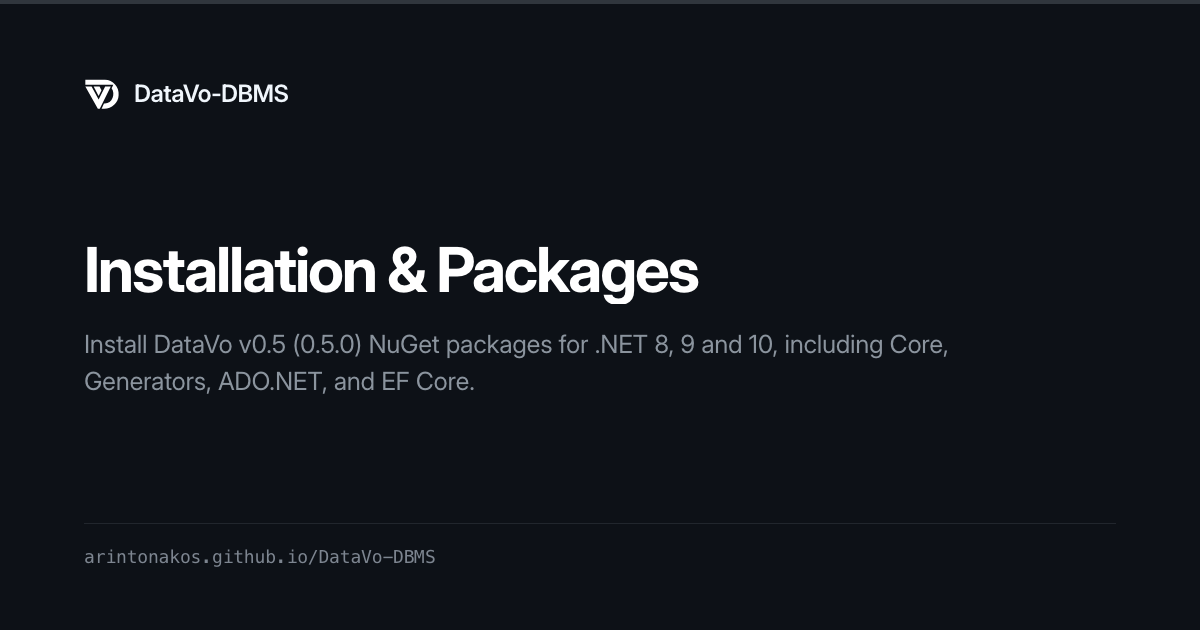
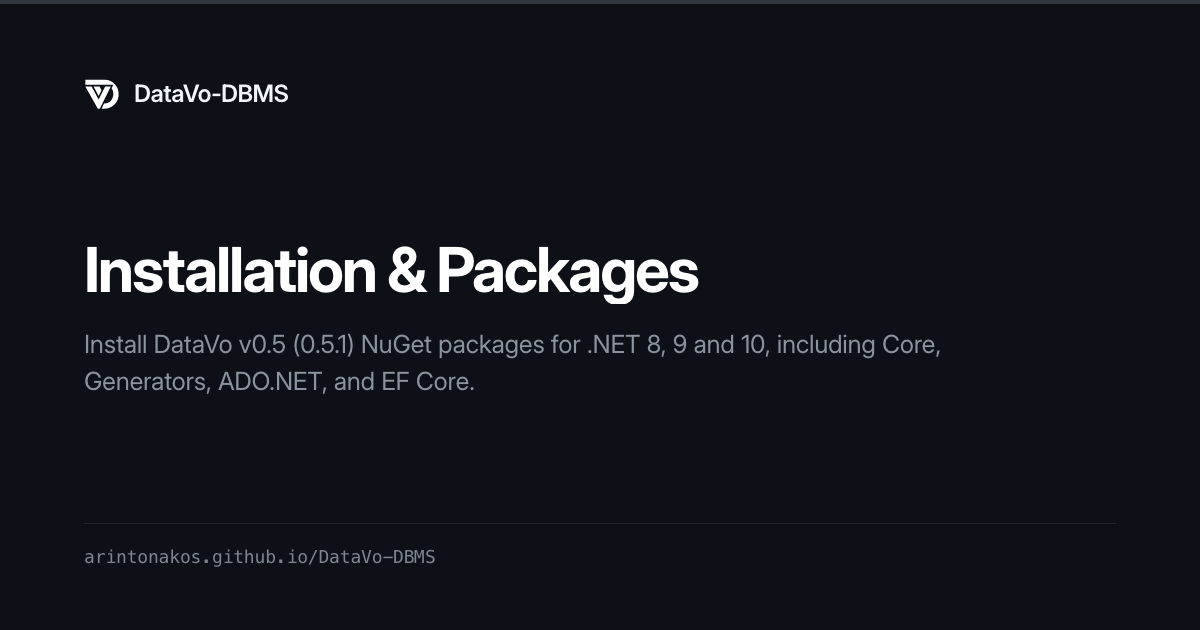
docs: add early repo CTAs to blog posts, sync 0.5.1 release, and fix roadmap redirects

Changed region(s): [[0.2775, 0.5127, 0.8017, 0.573]]

diff --git a/docs/.vitepress/theme/index.ts b/docs/.vitepress/theme/index.ts
@@ -25,6 +25,12 @@ function resolveLegacyRedirect(raw: string): string | null {
   const query = queryIndex >= 0 ? withoutHash.slice(queryIndex) : '';
   let pathname = queryIndex >= 0 ? withoutHash.slice(0, queryIndex) : withoutHash;
 
+  try {
+    pathname = decodeURIComponent(pathname);
+  } catch {
+    // Keep raw pathname if percent-encoding is malformed.
+  }
+
   if (pathname.startsWith(`${BASE_PREFIX}/`)) {
     pathname = pathname.slice(BASE_PREFIX.length);
   } else if (pathname === BASE_PREFIX) {
@@ -32,12 +38,19 @@ function resolveLegacyRedirect(raw: string): string | null {
   }
 
   pathname = pathname.replace(/\.html$/u, '').replace(/\/+$/u, '');
-  const target = LEGACY_REDIRECTS[pathname];
-  if (!target) {
-    return null;
+  const directTarget = LEGACY_REDIRECTS[pathname];
+  if (directTarget) {
+    return `${withBase(directTarget)}${query}${hash}`;
   }
 
-  return `${withBase(target)}${query}${hash}`;
+  // Strip stray trailing markdown punctuation (e.g. `/manual/getting-started/roadmap))` or `roadmap)):`).
+  const stripped = pathname.replace(/[):]+$/u, '');
+  if (stripped && stripped !== pathname) {
+    const target = LEGACY_REDIRECTS[stripped] ?? stripped;
+    return `${withBase(target)}${query}${hash}`;
+  }
+
+  return null;
 }
 
 declare global {

diff --git a/docs/.vitepress/legacy-redirects.ts b/docs/.vitepress/legacy-redirects.ts
@@ -8,6 +8,8 @@ export const LEGACY_REDIRECTS: Record<string, string> = {
   '/manual/preface/project-status': '/manual/getting-started/roadmap',
   '/manual/preface/alpha-scope': '/manual/getting-started/roadmap',
   '/manual/preface/roadmap': '/manual/getting-started/roadmap',
+  '/manual/getting-started/roadmap)': '/manual/getting-started/roadmap',
+  '/manual/getting-started/roadmap))': '/manual/getting-started/roadmap',
   '/manual/tutorial/quickstart': '/manual/getting-started/quickstart',
   '/manual/tutorial/datavo-context': '/manual/client-interfaces/datavo-context-api',
   '/manual/tutorial/ado-net-and-dapper': '/manual/client-interfaces/dapper',

diff --git a/docs/blog/part-1-where-it-wins-and-where-it-loses.md b/docs/blog/part-1-where-it-wins-and-where-it-loses.md
@@ -16,7 +16,7 @@ When you build a local-first .NET application today—a desktop tool that has to
 
 I wanted to know what happens if you collapse all of that into a single managed .NET 10 process.
 
-Over the last several months, I have been building two pieces to test that idea. **DataVo-DBMS** is an MIT-licensed embedded relational, columnar, and vector database written from scratch in pure C# (compiling cleanly under Native AOT). **DataVo-Sync** is a separate, proprietary commercial add-on that keeps a local DataVo store synchronized with PostgreSQL in both directions, including writes made while offline.
+Over the last several months, I have been building two pieces to test that idea. **[DataVo-DBMS](https://github.com/ArintonAkos/DataVo-DBMS)** is an MIT-licensed embedded relational, columnar, and vector database written from scratch in pure C# (compiling cleanly under Native AOT). **[DataVo-Sync](https://github.com/ArintonAkos/DataVo-Sync)** is a separate, proprietary commercial add-on that keeps a local DataVo store synchronized with PostgreSQL in both directions, including writes made while offline.
 
 This first post is a map of the whole system: why it is structured the way it is, what kinds of applications it actually fits, and what the numbers look like when measured against SQLite, DuckDB, and ElectricSQL across macOS, Linux, and Windows.
 
@@ -28,6 +28,10 @@ At a glance, the approach pays off in four specific places:
 - **Compact offline-first Postgres sync:** End-to-end PostgreSQL 17 replication transfers **45.5 bytes per row** over the wire (**8.0× smaller** than ElectricSQL `1.8.1`) with **5.1–6.9× lower** client GC allocations, converging automatically after a burst of 500 offline writes.
 
 It also loses in predictable places: unindexed substring scans (**1.35× slower** than SQLite on `LIKE '%042-%'`), whole-table analytical scans without `[Columnar]` (**3–340× slower** than DuckDB), Linux single-row durable `StrictFsync` latency (**0.241 ms** vs **0.108 ms**, **2.2× slower** than SQLite WAL `FULL`), and sync hub cold-start time (**2.4 s** to load 100k rows). Those losses are reported alongside the wins below, because an embedded database is only useful once you know where its boundaries are.
+
+::: tip Try or bookmark DataVo
+Explore or star the MIT-licensed engine at [`ArintonAkos/DataVo-DBMS`](https://github.com/ArintonAkos/DataVo-DBMS), or jump to the self-hosted Postgres sync quickstart at [`ArintonAkos/DataVo-Sync`](https://github.com/ArintonAkos/DataVo-Sync).
+:::
 
 ## Why put all of this in one process?
 
@@ -53,7 +57,7 @@ DataVo exists for four narrower situations where the usual stack starts to show 
 
 *Figure 1: Traditional .NET local-first assembly vs. single-process consolidation in DataVo.*
 
-It is equally important to be clear about what DataVo is **not**. It is not a client/server database: a lock file (`datavo.lock`) gives one process exclusive ownership of a database directory. Transactions provide snapshot isolation rather than serializability <a class="cite-badge" href="#ref-2">2</a>. Its SQL dialect intentionally leaves out features teams expect from full-scale SQL engines: no `CASE`/`CAST`/`COALESCE` or date functions, no window functions beyond `RANK()`, and no `CREATE VIEW`, triggers, or stored procedures. At `0.4.0-rc.1` it is prerelease software whose on-disk format does not yet carry a cross-version compatibility guarantee: standalone local databases require an export and re-import across breaking format changes, whereas `DataVo-Sync` setups treat PostgreSQL as the source of truth and can simply wipe and re-hydrate the local replica (**~0.7 s** for 100k rows).
+It is equally important to be clear about what DataVo is **not**. It is not a client/server database: a lock file (`datavo.lock`) gives one process exclusive ownership of a database directory. Transactions provide snapshot isolation rather than serializability <a class="cite-badge" href="#ref-2">2</a>. Its SQL dialect intentionally leaves out features teams expect from full-scale SQL engines: no `CASE`/`CAST`/`COALESCE` or date functions, no window functions beyond `RANK()`, and no `CREATE VIEW`, triggers, or stored procedures. At `0.5.1` (the current release on NuGet) it is pre-1.0 software whose on-disk format does not yet carry a cross-version compatibility guarantee: standalone local databases require an export and re-import across breaking format changes, whereas `DataVo-Sync` setups treat PostgreSQL as the source of truth and can simply wipe and re-hydrate the local replica (**~0.7 s** for 100k rows).
 
 ## How the engine is put together
 
@@ -265,7 +269,7 @@ The first run of this oracle on 14 November, against the unmodified engine, caug
 
 Each had a distinct bug underneath: a `WHERE` filter on the `NULL`-supplying side of an outer join evaluated before `NULL` padding existed; a parser dropping `DISTINCT` inside an aggregate; a planner comparing a table alias string against a raw table name; row keys emitted in a different order depending on join drive side; and a vector join path applying only the portion of `WHERE` that referenced the vector table.
 
-All five are fixed and covered by regression tests in `0.4.0-rc.1`. I include them here because speed numbers mean little without them: a fast wrong answer is not fast. Rigger and Su's *Pivoted Query Synthesis* <a class="cite-badge" href="#ref-7">7</a> and Slutz's *Massive Stochastic Testing of SQL* <a class="cite-badge" href="#ref-8">8</a> are the intellectual ancestors of this check, though here the oracle is an exact computation from the generator rather than a second database.
+All five were fixed and covered by regression tests in `0.4.0-rc.1` (and carry forward into the current `0.5.1` NuGet release). I include them here because speed numbers mean little without them: a fast wrong answer is not fast. Rigger and Su's *Pivoted Query Synthesis* <a class="cite-badge" href="#ref-7">7</a> and Slutz's *Massive Stochastic Testing of SQL* <a class="cite-badge" href="#ref-8">8</a> are the intellectual ancestors of this check, though here the oracle is an exact computation from the generator rather than a second database.
 
 ## Durability, concurrency, and recovery
 
@@ -381,7 +385,7 @@ Every storage engine is a set of trade-offs. Beyond the SQLite wins on `W6`, `C8
 
 Put those limits together with the wins, and the decision boundary is straightforward:
 
-- **Use SQLite** if you want the default embedded SQL database with the broadest SQL support, the largest ecosystem, and two decades of failure experience. DataVo's dialect is its own and its `0.4.0-rc.1` on-disk format may still change.
+- **Use SQLite** if you want the default embedded SQL database with the broadest SQL support, the largest ecosystem, and two decades of failure experience. DataVo's dialect is its own and its `0.5.1` on-disk format may still change.
 - **Use DuckDB** if your workload is whole-table OLAP analytics over large datasets or Parquet/CSV files. It is one to three orders of magnitude faster than either DataVo or SQLite on those queries.
 - **Use ElectricSQL** if you want read-path sync from PostgreSQL into a browser or app from an established, maintained product. My comparison covers one workload (initial sync and live latency over loopback), not its full feature set. In this setup it served as a read path; DataVo-Sync adds an offline write path, which is a different scope rather than a better implementation of the same one.
 - **Try DataVo** if you are building in .NET and specifically want managed Native AOT packaging with zero native binaries, SQL + `VECTOR(n)` search + Z-set incremental views in one transaction log, or bidirectional offline-first PostgreSQL sync.
@@ -389,8 +393,8 @@ Put those limits together with the wins, and the decision boundary is straightfo
 ## Getting started
 
 ```bash
-dotnet add package DataVo.Core --prerelease
-dotnet add package DataVo.Generators --prerelease   # optional: zero-alloc compiled LINQ
+dotnet add package DataVo.Core
+dotnet add package DataVo.Generators   # optional: zero-alloc compiled LINQ
 ```
 
 ```csharp

diff --git a/docs/public/ai/pages/blog/part-1-where-it-wins-and-where-it-loses.md b/docs/public/ai/pages/blog/part-1-where-it-wins-and-where-it-loses.md
@@ -9,7 +9,7 @@ When you build a local-first .NET application today—a desktop tool that has to
 
 I wanted to know what happens if you collapse all of that into a single managed .NET 10 process.
 
-Over the last several months, I have been building two pieces to test that idea. **DataVo-DBMS** is an MIT-licensed embedded relational, columnar, and vector database written from scratch in pure C# (compiling cleanly under Native AOT). **DataVo-Sync** is a separate, proprietary commercial add-on that keeps a local DataVo store synchronized with PostgreSQL in both directions, including writes made while offline.
+Over the last several months, I have been building two pieces to test that idea. **[DataVo-DBMS](https://github.com/ArintonAkos/DataVo-DBMS)** is an MIT-licensed embedded relational, columnar, and vector database written from scratch in pure C# (compiling cleanly under Native AOT). **[DataVo-Sync](https://github.com/ArintonAkos/DataVo-Sync)** is a separate, proprietary commercial add-on that keeps a local DataVo store synchronized with PostgreSQL in both directions, including writes made while offline.
 
 This first post is a map of the whole system: why it is structured the way it is, what kinds of applications it actually fits, and what the numbers look like when measured against SQLite, DuckDB, and ElectricSQL across macOS, Linux, and Windows.
 
@@ -21,6 +21,10 @@ At a glance, the approach pays off in four specific places:
 - **Compact offline-first Postgres sync:** End-to-end PostgreSQL 17 replication transfers **45.5 bytes per row** over the wire (**8.0× smaller** than ElectricSQL `1.8.1`) with **5.1–6.9× lower** client GC allocations, converging automatically after a burst of 500 offline writes.
 
 It also loses in predictable places: unindexed substring scans (**1.35× slower** than SQLite on `LIKE '%042-%'`), whole-table analytical scans without `[Columnar]` (**3–340× slower** than DuckDB), Linux single-row durable `StrictFsync` latency (**0.241 ms** vs **0.108 ms**, **2.2× slower** than SQLite WAL `FULL`), and sync hub cold-start time (**2.4 s** to load 100k rows). Those losses are reported alongside the wins below, because an embedded database is only useful once you know where its boundaries are.
+
+::: tip Try or bookmark DataVo
+Explore or star the MIT-licensed engine at [`ArintonAkos/DataVo-DBMS`](https://github.com/ArintonAkos/DataVo-DBMS), or jump to the self-hosted Postgres sync quickstart at [`ArintonAkos/DataVo-Sync`](https://github.com/ArintonAkos/DataVo-Sync).
+:::
 
 ## Why put all of this in one process?
 
@@ -46,7 +50,7 @@ DataVo exists for four narrower situations where the usual stack starts to show 
 
 *Figure 1: Traditional .NET local-first assembly vs. single-process consolidation in DataVo.*
 
-It is equally important to be clear about what DataVo is **not**. It is not a client/server database: a lock file (`datavo.lock`) gives one process exclusive ownership of a database directory. Transactions provide snapshot isolation rather than serializability <a class="cite-badge" href="#ref-2">2</a>. Its SQL dialect intentionally leaves out features teams expect from full-scale SQL engines: no `CASE`/`CAST`/`COALESCE` or date functions, no window functions beyond `RANK()`, and no `CREATE VIEW`, triggers, or stored procedures. At `0.4.0-rc.1` it is prerelease software whose on-disk format does not yet carry a cross-version compatibility guarantee: standalone local databases require an export and re-import across breaking format changes, whereas `DataVo-Sync` setups treat PostgreSQL as the source of truth and can simply wipe and re-hydrate the local replica (**~0.7 s** for 100k rows).
+It is equally important to be clear about what DataVo is **not**. It is not a client/server database: a lock file (`datavo.lock`) gives one process exclusive ownership of a database directory. Transactions provide snapshot isolation rather than serializability <a class="cite-badge" href="#ref-2">2</a>. Its SQL dialect intentionally leaves out features teams expect from full-scale SQL engines: no `CASE`/`CAST`/`COALESCE` or date functions, no window functions beyond `RANK()`, and no `CREATE VIEW`, triggers, or stored procedures. At `0.5.1` (the current release on NuGet) it is pre-1.0 software whose on-disk format does not yet carry a cross-version compatibility guarantee: standalone local databases require an export and re-import across breaking format changes, whereas `DataVo-Sync` setups treat PostgreSQL as the source of truth and can simply wipe and re-hydrate the local replica (**~0.7 s** for 100k rows).
 
 ## How the engine is put together
 
@@ -258,7 +262,7 @@ The first run of this oracle on 14 November, against the unmodified engine, caug
 
 Each had a distinct bug underneath: a `WHERE` filter on the `NULL`-supplying side of an outer join evaluated before `NULL` padding existed; a parser dropping `DISTINCT` inside an aggregate; a planner comparing a table alias string against a raw table name; row keys emitted in a different order depending on join drive side; and a vector join path applying only the portion of `WHERE` that referenced the vector table.
 
-All five are fixed and covered by regression tests in `0.4.0-rc.1`. I include them here because speed numbers mean little without them: a fast wrong answer is not fast. Rigger and Su's *Pivoted Query Synthesis* <a class="cite-badge" href="#ref-7">7</a> and Slutz's *Massive Stochastic Testing of SQL* <a class="cite-badge" href="#ref-8">8</a> are the intellectual ancestors of this check, though here the oracle is an exact computation from the generator rather than a second database.
+All five were fixed and covered by regression tests in `0.4.0-rc.1` (and carry forward into the current `0.5.1` NuGet release). I include them here because speed numbers mean little without them: a fast wrong answer is not fast. Rigger and Su's *Pivoted Query Synthesis* <a class="cite-badge" href="#ref-7">7</a> and Slutz's *Massive Stochastic Testing of SQL* <a class="cite-badge" href="#ref-8">8</a> are the intellectual ancestors of this check, though here the oracle is an exact computation from the generator rather than a second database.
 
 ## Durability, concurrency, and recovery
 
@@ -374,7 +378,7 @@ Every storage engine is a set of trade-offs. Beyond the SQLite wins on `W6`, `C8
 
 Put those limits together with the wins, and the decision boundary is straightforward:
 
-- **Use SQLite** if you want the default embedded SQL database with the broadest SQL support, the largest ecosystem, and two decades of failure experience. DataVo's dialect is its own and its `0.4.0-rc.1` on-disk format may still change.
+- **Use SQLite** if you want the default embedded SQL database with the broadest SQL support, the largest ecosystem, and two decades of failure experience. DataVo's dialect is its own and its `0.5.1` on-disk format may still change.
 - **Use DuckDB** if your workload is whole-table OLAP analytics over large datasets or Parquet/CSV files. It is one to three orders of magnitude faster than either DataVo or SQLite on those queries.
 - **Use ElectricSQL** if you want read-path sync from PostgreSQL into a browser or app from an established, maintained product. My comparison covers one workload (initial sync and live latency over loopback), not its full feature set. In this setup it served as a read path; DataVo-Sync adds an offline write path, which is a different scope rather than a better implementation of the same one.
 - **Try DataVo** if you are building in .NET and specifically want managed Native AOT packaging with zero native binaries, SQL + `VECTOR(n)` search + Z-set incremental views in one transaction log, or bidirectional offline-first PostgreSQL sync.
@@ -382,8 +386,8 @@ Put those limits together with the wins, and the decision boundary is straightfo
 ## Getting started
 
 ```bash
-dotnet add package DataVo.Core --prerelease
-dotnet add package DataVo.Generators --prerelease   # optional: zero-alloc compiled LINQ
+dotnet add package DataVo.Core
+dotnet add package DataVo.Generators   # optional: zero-alloc compiled LINQ
 ```
 
 ```csharp

diff --git a/docs/manual/getting-started/roadmap.md b/docs/manual/getting-started/roadmap.md
@@ -1,11 +1,11 @@
 ---
 title: Status & Roadmap
-description: Release guarantees, subsystem stability, explicit boundaries, and the v0.2–v0.5 milestone history for DataVo 0.5.0.
+description: Release guarantees, subsystem stability, explicit boundaries, and the v0.2–v0.5 milestone history for DataVo 0.5.1.
 ---
 
 # Status & Roadmap
 
-The current release on NuGet is **0.5.0 (25 November 2026)**, targeting `.NET 8`, `.NET 9`, `.NET 10` and `netstandard2.1`. This page defines the release contract, subsystem status, architectural boundaries, and the milestone history.
+The current release on NuGet is **0.5.1 (26 November 2026)**, targeting `.NET 8`, `.NET 9`, `.NET 10` and `netstandard2.1`. This page defines the release contract, subsystem status, architectural boundaries, and the milestone history.
 
 ## Release Contract
 
@@ -19,14 +19,14 @@ The current release on NuGet is **0.5.0 (25 November 2026)**, targeting `.NET 8`
 
 | Subsystem | Status | Notes |
 | --- | --- | --- |
-| `DataVoContext` & SQL dialect | Released (0.5.0) | DataVo's own dialect; see [SQL Compatibility](/manual/sql/compatibility) |
-| `InMemory` & `Lsm` storage | Released (0.5.0) | The two storage modes (the paged `Disk` engine was removed in v0.5) |
-| Transactions & MVCC | Released (0.5.0) | Snapshot isolation, savepoints, atomic `COMMIT` |
-| Vector search (`HNSW`, `FLAT`) | Released (0.5.0) | Cosine (`<=>`) and L2 (`<->`), cost-based exact fallback |
-| Columnar indexes & SSTable segments | Released (0.5.0) | In-memory buffers + persisted 4,096-row zone-mapped segments |
-| Live Reactive Views (Z-set IVM) | Released (0.5.0) | Pull-drain subscriptions via `Subscribe` / `SubscribeZeroAlloc` |
-| `DataVo.Generators` & Native AOT | Released (0.5.0) | Trim/AOT analyzers (`IL2026`, `IL3050`) enforced as errors |
-| `DataVo.Data` (ADO.NET & Dapper) | Released (0.5.0) | Standard `System.Data.Common` types; no `DbProviderFactory` |
+| `DataVoContext` & SQL dialect | Released (0.5.1) | DataVo's own dialect; see [SQL Compatibility](/manual/sql/compatibility) |
+| `InMemory` & `Lsm` storage | Released (0.5.1) | The two storage modes (the paged `Disk` engine was removed in v0.5) |
+| Transactions & MVCC | Released (0.5.1) | Snapshot isolation, savepoints, atomic `COMMIT` |
+| Vector search (`HNSW`, `FLAT`) | Released (0.5.1) | Cosine (`<=>`) and L2 (`<->`), cost-based exact fallback |
+| Columnar indexes & SSTable segments | Released (0.5.1) | In-memory buffers + persisted 4,096-row zone-mapped segments |
+| Live Reactive Views (Z-set IVM) | Released (0.5.1) | Pull-drain subscriptions via `Subscribe` / `SubscribeZeroAlloc` |
+| `DataVo.Generators` & Native AOT | Released (0.5.1) | Trim/AOT analyzers (`IL2026`, `IL3050`) enforced as errors |
+| `DataVo.Data` (ADO.NET & Dapper) | Released (0.5.1) | Standard `System.Data.Common` types; no `DbProviderFactory` |
 | `DataVo.EntityFrameworkCore` | Preview bridge | Query/DML bridge only; no migrations, excluded from AOT |
 | `DataVo.Browser` (WebAssembly) | Experimental | Powers the docs playground; not published on npm |
 | `DataVo-Sync` (PostgreSQL sync) | Commercial add-on | Separate proprietary product; see [DataVo-Sync](/manual/fundamentals/datavo-sync) |
@@ -57,7 +57,7 @@ The current release on NuGet is **0.5.0 (25 November 2026)**, targeting `.NET 8`
 - **Typed execution:** `OR`/`LIKE` fast paths, integer-key hash joins, index-driven joins, dense bit-set anti-joins, unboxed `GROUP BY`, UTF-8 byte matching, and in-place top-k.
 - **Vector search:** HNSW diversity heuristic on by default (100% recall@10 on clustered data), cost-based exact scan fallback, SQL `WITH (...)` HNSW parameters, and pre-optimized SIMD kernels.
 
-### v0.5: AI Integration, Client Ergonomics & Native Interop *(released as `0.5.0`)*
+### v0.5: AI Integration, Client Ergonomics & Native Interop *(released as `0.5.0`; current release `0.5.1`)*
 - **Track A (Native Interop):** Native AOT C ABI (`dv_open`, `dv_exec`, `dv_prepare`) for C/Python/Rust/Go, zero-copy Apache Arrow C Data Interface export from columnar buffers/SSTables, and a reference Python binding.
 - **Track B (Client Applications):**
   - *Done:* Build-time compiled `OrderBy`/`ThenBy`, `Skip`/`Take`, `Select` projections, and single-table `ExecuteUpdate`/`ExecuteDelete` in `DataVo.Generators`.

diff --git a/docs/public/ai/pages/manual/getting-started/roadmap.md b/docs/public/ai/pages/manual/getting-started/roadmap.md
@@ -3,7 +3,7 @@
 > Source route: /manual/getting-started/roadmap
 > Source file: manual/getting-started/roadmap.md
 
-The current release on NuGet is **0.5.0 (25 November 2026)**, targeting `.NET 8`, `.NET 9`, `.NET 10` and `netstandard2.1`. This page defines the release contract, subsystem status, architectural boundaries, and the milestone history.
+The current release on NuGet is **0.5.1 (26 November 2026)**, targeting `.NET 8`, `.NET 9`, `.NET 10` and `netstandard2.1`. This page defines the release contract, subsystem status, architectural boundaries, and the milestone history.
 
 ## Release Contract
 
@@ -17,14 +17,14 @@ The current release on NuGet is **0.5.0 (25 November 2026)**, targeting `.NET 8`
 
 | Subsystem | Status | Notes |
 | --- | --- | --- |
-| `DataVoContext` & SQL dialect | Released (0.5.0) | DataVo's own dialect; see [SQL Compatibility](/manual/sql/compatibility) |
-| `InMemory` & `Lsm` storage | Released (0.5.0) | The two storage modes (the paged `Disk` engine was removed in v0.5) |
-| Transactions & MVCC | Released (0.5.0) | Snapshot isolation, savepoints, atomic `COMMIT` |
-| Vector search (`HNSW`, `FLAT`) | Released (0.5.0) | Cosine (`<=>`) and L2 (`<->`), cost-based exact fallback |
-| Columnar indexes & SSTable segments | Released (0.5.0) | In-memory buffers + persisted 4,096-row zone-mapped segments |
-| Live Reactive Views (Z-set IVM) | Released (0.5.0) | Pull-drain subscriptions via `Subscribe` / `SubscribeZeroAlloc` |
-| `DataVo.Generators` & Native AOT | Released (0.5.0) | Trim/AOT analyzers (`IL2026`, `IL3050`) enforced as errors |
-| `DataVo.Data` (ADO.NET & Dapper) | Released (0.5.0) | Standard `System.Data.Common` types; no `DbProviderFactory` |
+| `DataVoContext` & SQL dialect | Released (0.5.1) | DataVo's own dialect; see [SQL Compatibility](/manual/sql/compatibility) |
+| `InMemory` & `Lsm` storage | Released (0.5.1) | The two storage modes (the paged `Disk` engine was removed in v0.5) |
+| Transactions & MVCC | Released (0.5.1) | Snapshot isolation, savepoints, atomic `COMMIT` |
+| Vector search (`HNSW`, `FLAT`) | Released (0.5.1) | Cosine (`<=>`) and L2 (`<->`), cost-based exact fallback |
+| Columnar indexes & SSTable segments | Released (0.5.1) | In-memory buffers + persisted 4,096-row zone-mapped segments |
+| Live Reactive Views (Z-set IVM) | Released (0.5.1) | Pull-drain subscriptions via `Subscribe` / `SubscribeZeroAlloc` |
+| `DataVo.Generators` & Native AOT | Released (0.5.1) | Trim/AOT analyzers (`IL2026`, `IL3050`) enforced as errors |
+| `DataVo.Data` (ADO.NET & Dapper) | Released (0.5.1) | Standard `System.Data.Common` types; no `DbProviderFactory` |
 | `DataVo.EntityFrameworkCore` | Preview bridge | Query/DML bridge only; no migrations, excluded from AOT |
 | `DataVo.Browser` (WebAssembly) | Experimental | Powers the docs playground; not published on npm |
 | `DataVo-Sync` (PostgreSQL sync) | Commercial add-on | Separate proprietary product; see [DataVo-Sync](/manual/fundamentals/datavo-sync) |
@@ -55,7 +55,7 @@ The current release on NuGet is **0.5.0 (25 November 2026)**, targeting `.NET 8`
 - **Typed execution:** `OR`/`LIKE` fast paths, integer-key hash joins, index-driven joins, dense bit-set anti-joins, unboxed `GROUP BY`, UTF-8 byte matching, and in-place top-k.
 - **Vector search:** HNSW diversity heuristic on by default (100% recall@10 on clustered data), cost-based exact scan fallback, SQL `WITH (...)` HNSW parameters, and pre-optimized SIMD kernels.
 
-### v0.5: AI Integration, Client Ergonomics & Native Interop *(released as `0.5.0`)*
+### v0.5: AI Integration, Client Ergonomics & Native Interop *(released as `0.5.0`; current release `0.5.1`)*
 - **Track A (Native Interop):** Native AOT C ABI (`dv_open`, `dv_exec`, `dv_prepare`) for C/Python/Rust/Go, zero-copy Apache Arrow C Data Interface export from columnar buffers/SSTables, and a reference Python binding.
 - **Track B (Client Applications):**
   - *Done:* Build-time compiled `OrderBy`/`ThenBy`, `Skip`/`Take`, `Select` projections, and single-table `ExecuteUpdate`/`ExecuteDelete` in `DataVo.Generators`.

diff --git a/README.md b/README.md
@@ -78,7 +78,7 @@ Full tables, methodology, cross-platform CI runs, and raw outputs:
 
 ## Install
 
-Current release on [nuget.org](https://www.nuget.org/packages/DataVo.Core/): **0.5.0** (25 November 2026; see the [roadmap](https://arintonakos.github.io/DataVo-DBMS/manual/getting-started/roadmap)):
+Current release on [nuget.org](https://www.nuget.org/packages/DataVo.Core/): **0.5.1** (26 November 2026) — see the [roadmap](https://arintonakos.github.io/DataVo-DBMS/manual/getting-started/roadmap):
 
 ```bash
 dotnet add package DataVo.Core
@@ -199,7 +199,7 @@ The full manual is live at [arintonakos.github.io/DataVo-DBMS](https://arintonak
 
 ## Status
 
-DataVo `0.5.0` is a pre-1.0 release. The documented SQL dialect and C# APIs may still change between minor versions, and the on-disk format does not yet carry a long-term cross-version compatibility guarantee, so keep an export or seed script for important data. Validate your own workload before relying on it in production.
+DataVo `0.5.1` is a pre-1.0 release. The documented SQL dialect and C# APIs may still change between minor versions, and the on-disk format does not yet carry a long-term cross-version compatibility guarantee, so keep an export or seed script for important data. Validate your own workload before relying on it in production.
 
 ## License
 

diff --git a/docs/blog/part-2-packed-buffers-aot-and-roslyn-codegen.md b/docs/blog/part-2-packed-buffers-aot-and-roslyn-codegen.md
@@ -28,6 +28,10 @@ At a glance, five engineering choices drive both the speed and the packaging sto
 
 Each of these optimizations trades runtime cost for additional parity invariants against the general SQL evaluator, memory-ordering constraints, or compiler requirements; the final section examines those trade-offs.
 
+::: tip Source & Benchmarks
+Explore or bookmark the source code, Roslyn generators, Native AOT smoke tests, and reproducible benchmarks at [`ArintonAkos/DataVo-DBMS`](https://github.com/ArintonAkos/DataVo-DBMS).
+:::
+
 ## The invisible tax of crossing the managed–native boundary
 
 When a .NET application reads one row from an in-memory SQLite database via a prepared `SqliteCommand`, the lookup is far more than a B-tree probe in RAM. Even after `Prepare()` compiles the SQL into VDBE bytecode, every row fetch crosses an ABI boundary and navigates a dynamically typed C API <a class="cite-badge" href="#ref-2">2</a> <a class="cite-badge" href="#ref-3">3</a> (Figure 1).

diff --git a/docs/public/ai/pages/blog/part-2-packed-buffers-aot-and-roslyn-codegen.md b/docs/public/ai/pages/blog/part-2-packed-buffers-aot-and-roslyn-codegen.md
@@ -21,6 +21,10 @@ At a glance, five engineering choices drive both the speed and the packaging sto
 
 Each of these optimizations trades runtime cost for additional parity invariants against the general SQL evaluator, memory-ordering constraints, or compiler requirements; the final section examines those trade-offs.
 
+::: tip Source & Benchmarks
+Explore or bookmark the source code, Roslyn generators, Native AOT smoke tests, and reproducible benchmarks at [`ArintonAkos/DataVo-DBMS`](https://github.com/ArintonAkos/DataVo-DBMS).
+:::
+
 ## The invisible tax of crossing the managed–native boundary
 
 When a .NET application reads one row from an in-memory SQLite database via a prepared `SqliteCommand`, the lookup is far more than a B-tree probe in RAM. Even after `Prepare()` compiles the SQL into VDBE bytecode, every row fetch crosses an ABI boundary and navigates a dynamically typed C API <a class="cite-badge" href="#ref-2">2</a> <a class="cite-badge" href="#ref-3">3</a> (Figure 1).

diff --git a/docs/manual/getting-started/introduction.md b/docs/manual/getting-started/introduction.md
@@ -81,7 +81,7 @@ Queries are first offered to **typed execution paths** (single-table scans, inte
 
 ## See Also
 
-- [Installation & Packages](/manual/getting-started/installation): NuGet packages (`0.5.0`) and `.NET 8`/`9`/`10` requirements.
+- [Installation & Packages](/manual/getting-started/installation): NuGet packages (`0.5.1`) and `.NET 8`/`9`/`10` requirements.
 - [Quickstart](/manual/getting-started/quickstart): End-to-end C# walkthrough with `InMemory` and `Lsm`.
 - [DataVo vs SQLite](/manual/performance/datavo-vs-sqlite): Oracle-verified benchmarks across 28 SQL shapes and vector queries.
 - [Status & Roadmap](/manual/getting-started/roadmap): Release guarantees, boundaries, and the milestone history.

diff --git a/docs/public/ai/pages/manual/getting-started/introduction.md b/docs/public/ai/pages/manual/getting-started/introduction.md
@@ -79,7 +79,7 @@ Queries are first offered to **typed execution paths** (single-table scans, inte
 
 ## See Also
 
-- [Installation & Packages](/manual/getting-started/installation): NuGet packages (`0.5.0`) and `.NET 8`/`9`/`10` requirements.
+- [Installation & Packages](/manual/getting-started/installation): NuGet packages (`0.5.1`) and `.NET 8`/`9`/`10` requirements.
 - [Quickstart](/manual/getting-started/quickstart): End-to-end C# walkthrough with `InMemory` and `Lsm`.
 - [DataVo vs SQLite](/manual/performance/datavo-vs-sqlite): Oracle-verified benchmarks across 28 SQL shapes and vector queries.
 - [Status & Roadmap](/manual/getting-started/roadmap): Release guarantees, boundaries, and the milestone history.

diff --git a/docs/manual/getting-started/installation.md b/docs/manual/getting-started/installation.md
@@ -1,11 +1,11 @@
 ---
 title: Installation & Packages
-description: Install DataVo v0.5 (0.5.0) NuGet packages for .NET 8, 9 and 10, including Core, Generators, ADO.NET, and EF Core.
+description: Install DataVo v0.5 (0.5.1) NuGet packages for .NET 8, 9 and 10, including Core, Generators, ADO.NET, and EF Core.
 ---
 
 # Installation & Packages
 
-DataVo ships as five NuGet packages on `nuget.org`, with `DataVo.Core` as the foundation. The current release is **0.5.0**.
+DataVo ships as five NuGet packages on `nuget.org`, with `DataVo.Core` as the foundation. The current release is **0.5.1**.
 
 ```bash
 dotnet add package DataVo.Core
